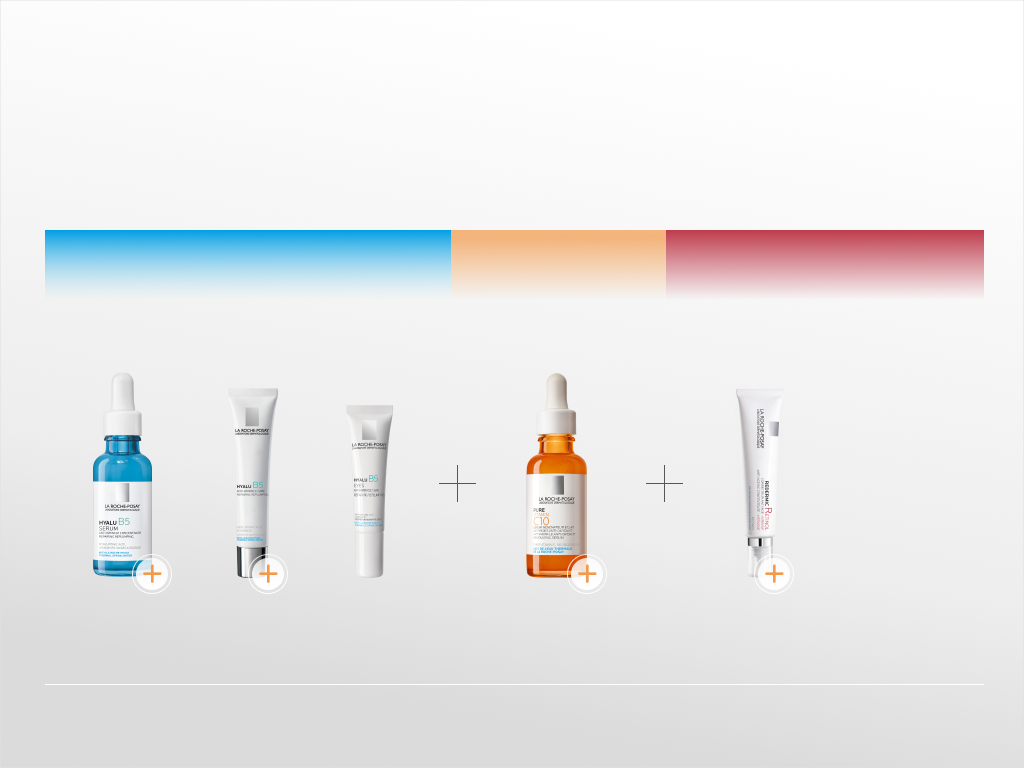
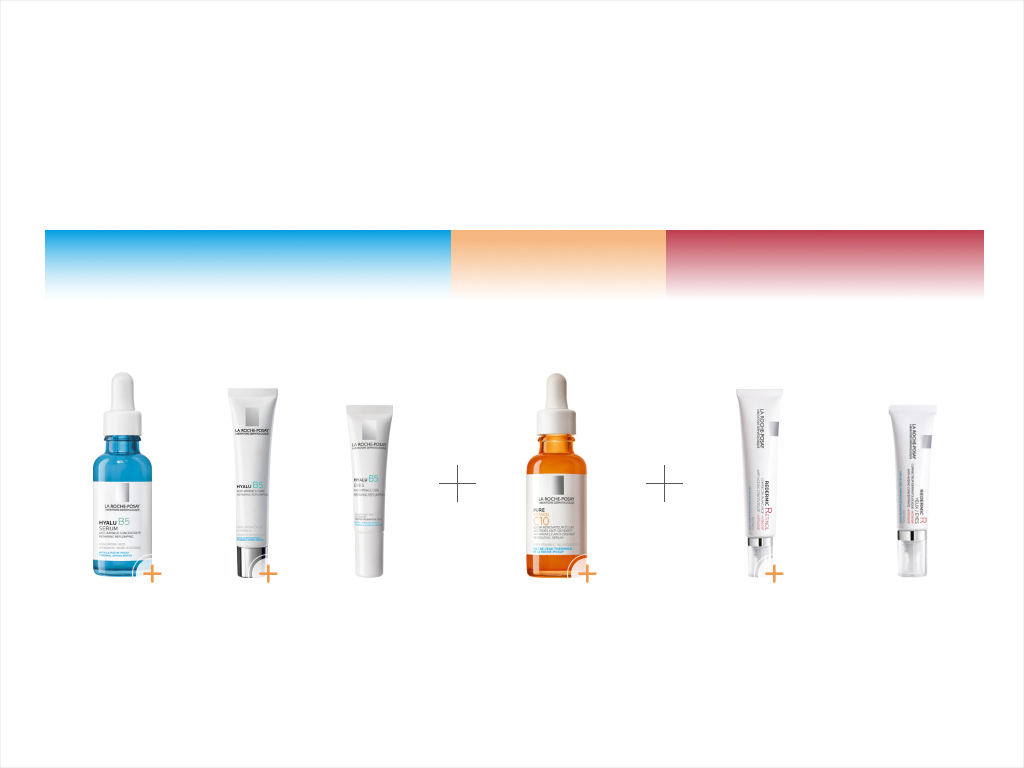
vitamine 16:10

Changed region(s): [[0.0, 0.625, 1.0, 1.0], [0.875, 0.5625, 0.9062, 0.75], [0.8438, 0.5312, 0.875, 0.5625]]

diff --git a/001_vitamine/js/common.js b/001_vitamine/js/common.js
@@ -2,6 +2,24 @@
 
 $(document).ready(function () {
 
+  var hideEl = function(data) {
+    $('.sl2').removeClass('_show');
+    $('.main-m').addClass('hide');
+  };
+
+  var showEl = function(data) {
+    $('.sl2').addClass('_show');
+    $('.main-m').removeClass('hide');
+  };
+
+  var changeBGtoWhite = function() {
+    $('.wrap .common-bg').removeClass('hide');
+  };
+
+  var changeBGtoGray = function() {
+    $('.wrap .common-bg').addClass('hide');
+  };
+
   var it1 = 768 / 100;
   var it2;
   var it4 = 1024 / 100;
@@ -71,42 +89,53 @@ $(document).ready(function () {
 
   $('.sl2 .vec2 a').click(function() {
     $('.m_pop2').fadeIn();
+    hideEl();
   });
   $('.m_pop2 .x').click(function() {
     $(this).parent().fadeOut();
+    showEl();
   });
 
   $('.sl2 .vec3 a').click(function() {
     $('.m_pop3').fadeIn();
-    $('.sl2 .ovec').removeClass('ac');
+    hideEl();
   });
   $('.m_pop3 .x').click(function() {
     $(this).parent().fadeOut();
+    showEl();
   });
 
   $('.m_pop3 .o1').click(function() {
     $('.m_pop4').fadeIn();
+    changeBGtoWhite();
   });
   $('.m_pop4 .x').click(function() {
     $(this).parent().fadeOut();
+    changeBGtoGray();
   });
   $('.m_pop3 .o2').click(function() {
     $('.m_pop5').fadeIn();
+    changeBGtoWhite();
   });
   $('.m_pop5 .x').click(function() {
     $(this).parent().fadeOut();
+    changeBGtoGray();
   });
   $('.m_pop3 .o3').click(function() {
     $('.m_pop6').fadeIn();
+    changeBGtoWhite();
   });
   $('.m_pop6 .x').click(function() {
     $(this).parent().fadeOut();
+    changeBGtoGray();
   });
   $('.m_pop3 .o4').click(function() {
     $('.m_pop7').fadeIn();
+    changeBGtoWhite();
   });
   $('.m_pop7 .x').click(function() {
     $(this).parent().fadeOut();
+    changeBGtoGray();
   });
 
   $('.sl2 .vec4 a').click(function() {

diff --git a/001_vitamine/css/stylev3.css b/001_vitamine/css/stylev3.css
@@ -56,8 +56,21 @@ html {
   justify-content: space-around;
   position: relative;
   overflow: hidden;
-  background: linear-gradient(13.34deg, #DBDBDB 14.6%, #ECEDEC 35.64%, #FFFFFF 90.84%);
+  background: linear-gradient(13.34deg, #DBDBDB 14.6%, #ECEDEC 35.64%, #FFF 90.84%);
+  transition: all 0.75s;
 }
+
+.wrap .common-bg {
+  position: absolute;
+  top: 0;
+  left: 0;
+  bottom: 0;
+  right: 0;
+  background-color: #FFF;
+  transition: all 0.75s;
+}
+
+.wrap .common-bg.hide { opacity: 0; }
 
 .wrap .over-wrap {
   position: relative;
@@ -73,7 +86,11 @@ html {
 
   display: flex;
   justify-content: space-between;
+
+  transition: all 0.75s;
 }
+
+.main-m.hide { opacity: 0; }
 
 .main-m a {
   width: 40px;

diff --git a/001_vitamine/index.html b/001_vitamine/index.html
@@ -9,6 +9,7 @@
   </head>
   <body>
     <div class="wrap">
+      <div class="common-bg hide"></div>
       <div class="over-wrap">
         <div id="page">
           <nav class="abs main-m">
